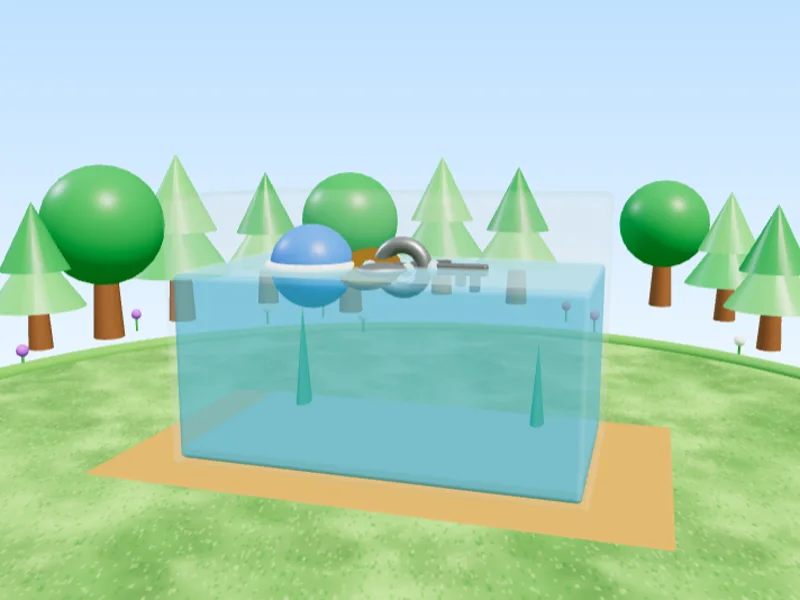
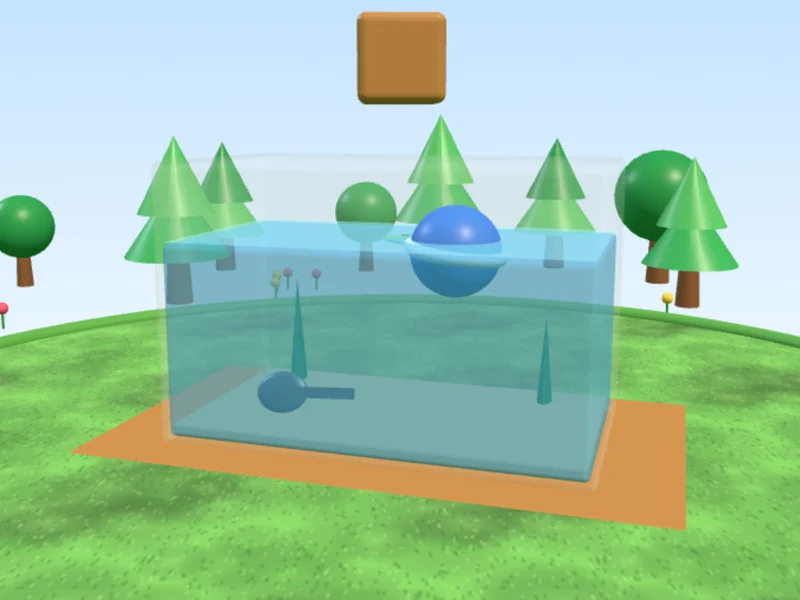
Кішкентай зерттеушілер: 6 тәжірибеге 3D ойындар
Claude-Session: https://claude.ai/code/session_01JwVscDKs5Ms9sQhpVNECAf

diff --git a/games.html b/games.html
@@ -1023,7 +1023,7 @@ function make3D(host, opts = {}) {
   if (!GRASS) GRASS = grassTex(T);
   const R = opts.groundR || 5;
   const ground = new T.Mesh(new T.CircleGeometry(R, 96), new T.MeshStandardMaterial({ color: lin(T, opts.groundC || 0xffffff), map: GRASS, roughness: .95 }));
-  ground.rotation.x = -Math.PI / 2; ground.receiveShadow = true; if (opts.ground !== false) scene.add(ground);
+  ground.rotation.x = -Math.PI / 2; ground.position.y = opts.groundY || 0; ground.receiveShadow = true; if (opts.ground !== false) scene.add(ground);
   const world = new T.Group(); scene.add(world);
   const ray = new T.Raycaster(), v2 = new T.Vector2(); let pick = [], onTap = null, anims = [];
   const camBase = cam.position.clone(), lookV = new T.Vector3(...(opts.look || [0, 1, 0])); let intro = 0; const introT = performance.now();
@@ -1045,11 +1045,11 @@ function make3D(host, opts = {}) {
   (function loop(now) { if (!alive) return; if (!host.isConnected) { alive = false; ro.disconnect(); renderer.dispose(); return; }
     const t = (now - t0) / 1000; if (intro < 1) { intro = Math.min(1, (now - introT) / 1100); placeCam(); }
     world.rotation.y += (rotY - world.rotation.y) * .15; world.rotation.x += (rotX - world.rotation.x) * .15;
-    anims = anims.filter(a => a(t) !== false); renderer.render(scene, cam); requestAnimationFrame(loop); })(t0);
+    { const cur = anims; anims = []; const keep = cur.filter(a => a(t) !== false); anims = keep.concat(anims); } renderer.render(scene, cam); requestAnimationFrame(loop); })(t0);
   const mat = c => LQ ? new T.MeshStandardMaterial({ color: lin(T, c), roughness: .38, metalness: 0 }) : opts.vivid ? new T.MeshPhysicalMaterial({ color: lin(T, c), roughness: .32, metalness: 0, clearcoat: 1, clearcoatRoughness: .06, envMapIntensity: .32 }) : new T.MeshPhysicalMaterial({ color: lin(T, c), roughness: .3, metalness: 0, clearcoat: .7, clearcoatRoughness: .22, envMapIntensity: .9 });
   const mesh = (geo, c, pos = [0, 0, 0]) => { const m = new T.Mesh(geo, mat(c)); m.position.set(...pos); m.castShadow = true; m.receiveShadow = true; return m; };
   const S = { T, scene, cam, world, mesh, mat, setPick: p => pick = p, tap: f => onTap = f, anim: f => anims.push(f), host, lin: c => lin(T, c), grass: (rep = 4) => { const t = GRASS.clone(); t.needsUpdate = true; t.repeat.set(rep, rep); return new T.MeshStandardMaterial({ color: 0xffffff, map: t, roughness: .95 }); } }; window._s3 = S;
-  if (opts.ground !== false && opts.decor !== false) decorate(S, R);
+  if (opts.ground !== false && opts.decor !== false) { const dg = decorate(S, R); dg.position.y = opts.groundY || 0; }
   return S;
 }
 const ease0 = k => 1 - Math.pow(1 - k, 3);
@@ -1529,7 +1529,7 @@ function sinkObj(S, k) { const T = S.T, g = new T.Group(); g.userData = { id: k 
   return g; }
 function g3Sink() {
   const b = body(); const btns = el('div', { class: 'pal3' }); const U3 = stage3(b); b.append(btns);
-  const S = make3D(U3.host, { cam: [0, 2.3, 6.3], look: [0, 1.25, 0], rotY: -.3 }); if (!S) return; const T = S.T;
+  const S = make3D(U3.host, { cam: [0, 2.3, 6.3], look: [0, 1.25, 0], rotY: -.3, vivid: 1 }); if (!S) return; const T = S.T;
   const W = 3.2, H = 2.1, Dp = 1.8, WL = 1.45;
   const table = S.mesh(rbox(T, 4.4, .25, 2.6, .08), 0xc58a4a, [0, -.12, 0]); S.world.add(table);
   const water = new T.Mesh(rbox(T, W - .1, WL, Dp - .1, .04), new T.MeshPhysicalMaterial({ color: lin(T, 0x1e9be8), transparent: true, opacity: .62, roughness: .05, clearcoat: 1, depthWrite: false })); water.position.y = WL / 2 + .05; water.renderOrder = 2; S.world.add(water); const surf = new T.Mesh(new T.PlaneGeometry(W - .12, Dp - .12), new T.MeshPhysicalMaterial({ color: lin(T, 0x9be3ff), transparent: true, opacity: .5, roughness: .02, clearcoat: 1, depthWrite: false })); surf.rotation.x = -Math.PI / 2; surf.position.y = WL + .06; surf.renderOrder = 4; S.world.add(surf); S.anim(() => { if (!surf.parent) return false; surf.position.y = WL + .06 + Math.sin(now3() / 500) * .01; });
@@ -1570,11 +1570,157 @@ GAMES.push(
   { id: 'runner3d', t: 'Кедергіден өт', d: 'Солға және оңға бұрылып, кедергіден өт, жұлдыз жина', emo: '🏃', d3: 1, run: g3Runner },
 );
 
-const TH3=['sink3d','shapes3d','tower3d','paint3d','balloons3d','odd3d','count3d','animals3d','changed3d','builder3d','emotions3d','help3d','bunny3d','moves3d','runner3d','applique','waste','eco'];
+/* =====================================================================
+   КІШКЕНТАЙ ЗЕРТТЕУШІЛЕР: 3D тәжірибе ойындары
+===================================================================== */
+function labTable(S, w = 5.2, d = 2.8) { const T = S.T; const t = S.mesh(rbox(T, w, .22, d, .08), 0xd4955a, [0, -.11, 0]); S.world.add(t); [[-1, -1], [1, -1], [-1, 1], [1, 1]].forEach(([x, z]) => S.world.add(S.mesh(bevCyl(T, .08, 1.2, .03), 0xb87a45, [x * (w / 2 - .3), -.82, z * (d / 2 - .3)]))); return t; }
+function predictBtns(btns, a, b, ca, cb, fa, fb) { const A = el('button', { class: 'blk', style: `background:linear-gradient(180deg,${ca[0]},${ca[1]});font-size:20px;padding:0 24px` }, a); A.onclick = fa; const B = el('button', { class: 'blk', style: `background:linear-gradient(180deg,${cb[0]},${cb[1]});font-size:20px;padding:0 24px` }, b); B.onclick = fb; btns.append(A, B); }
+
+/* ---------- Магнит нені тартады? ---------- */
+const MAG = [
+  { k: 'clip', l: 'Қағаз қыстырғыш', m: 1, why: 'ол темірден жасалған' }, { k: 'key', l: 'Темір кілт', m: 1, why: 'кілт темірден жасалған' },
+  { k: 'spoon', l: 'Темір қасық', m: 1, why: 'қасық темірден жасалған' }, { k: 'nail', l: 'Шеге', m: 1, why: 'шеге темірден жасалған' },
+  { k: 'pencil', l: 'Ағаш қарындаш', m: 0, why: 'ағашты магнит тартпайды' }, { k: 'cube', l: 'Пластик текше', m: 0, why: 'пластикті магнит тартпайды' },
+  { k: 'eraser', l: 'Өшіргіш', m: 0, why: 'резеңкені магнит тартпайды' }, { k: 'apple', l: 'Алма', m: 0, why: 'алма темір емес' }, { k: 'paper', l: 'Қағаз', m: 0, why: 'қағазды магнит тартпайды' },
+];
+function magObj(S, k) { const T = S.T, g = new T.Group(); g.userData = { id: k }; const metal = o => { o.traverse(x => { if (x.material) { x.material.metalness = .85; x.material.roughness = .22; } }); return o; };
+  if (k === 'clip') { const c = new T.CatmullRomCurve3([[-.25, 0, -.08], [.25, 0, -.08], [.25, 0, .08], [-.18, 0, .08], [-.18, 0, -.03], [.16, 0, -.03]].map(p => new T.Vector3(...p))); g.add(metal(S.mesh(new T.TubeGeometry(c, 60, .022, 8), 0xc7d0da, [0, .03, 0]))); }
+  if (k === 'key') { const r = S.mesh(new T.TorusGeometry(.13, .05, 12, 24), 0xc7d0da, [-.2, .05, 0]); r.rotation.x = Math.PI / 2; g.add(r, S.mesh(rbox(T, .42, .06, .07, .02), 0xc7d0da, [.12, .05, 0]), S.mesh(rbox(T, .05, .06, .1, .01), 0xc7d0da, [.27, .05, .07])); metal(g); }
+  if (k === 'spoon') { g.add(sph(S, .12, 0xc7d0da, [-.2, .04, 0], [1.3, .3, 1]), S.mesh(rbox(T, .38, .04, .06, .015), 0xc7d0da, [.1, .05, 0])); metal(g); }
+  if (k === 'nail') { const n = S.mesh(bevCyl(T, .025, .5, .01), 0xa9b4be, [0, .04, 0]); n.rotation.z = Math.PI / 2; const h = S.mesh(bevCyl(T, .06, .03, .01), 0xa9b4be, [-.26, .04, 0]); h.rotation.z = Math.PI / 2; g.add(n, h); metal(g); }
+  if (k === 'pencil') { const b = S.mesh(new T.CylinderGeometry(.05, .05, .6, 6), 0xffc400, [0, .05, 0]); b.rotation.z = Math.PI / 2; const tip = S.mesh(new T.ConeGeometry(.05, .14, 6), 0xf1d2a0, [.37, .05, 0]); tip.rotation.z = -Math.PI / 2; const er = S.mesh(bevCyl(T, .052, .08, .01), 0xff7aa8, [-.34, .05, 0]); er.rotation.z = Math.PI / 2; g.add(b, tip, er); }
+  if (k === 'cube') g.add(S.mesh(rbox(T, .3, .3, .3, .05), 0x0a5cff, [0, .15, 0]));
+  if (k === 'eraser') g.add(S.mesh(rbox(T, .34, .14, .2, .04), 0xff5a8a, [0, .07, 0]), S.mesh(rbox(T, .16, .145, .205, .03), 0x0a5cff, [.09, .07, 0]));
+  if (k === 'apple') { g.add(sph(S, .2, 0xe8101e, [0, .2, 0], [1, .92, 1]), S.mesh(bevCyl(T, .015, .1, .005), 0x6d4c41, [0, .4, 0])); }
+  if (k === 'paper') { const p = S.mesh(rbox(T, .4, .02, .3, .005), 0xffffff, [0, .02, 0]); p.rotation.y = .2; g.add(p); }
+  return g; }
+function magnet3(S) { const T = S.T, g = new T.Group(); const red = S.mesh(new T.TorusGeometry(.38, .14, 20, 40, Math.PI), 0xe8101e, [0, 0, 0]); red.rotation.z = Math.PI; g.add(red);
+  g.add(S.mesh(bevCyl(T, .14, .4, .03), 0xe8101e, [-.38, .2, 0]), S.mesh(bevCyl(T, .14, .4, .03), 0x0a5cff, [.38, .2, 0]), S.mesh(bevCyl(T, .145, .14, .02), 0xd9dde3, [-.38, .45, 0]), S.mesh(bevCyl(T, .145, .14, .02), 0xd9dde3, [.38, .45, 0]));
+  g.children.forEach(m => { if (m.material) m.material.color && 0; }); g.rotation.x = Math.PI; return g; }
+function g3Magnet() {
+  const b = body(); const btns = el('div', { class: 'pal3' }); const U3 = stage3(b); b.append(btns);
+  const S = make3D(U3.host, { cam: [0, 2.6, 5.6], look: [0, .6, 0], vivid: 1, rotY: -.15, groundY: -1.42 }); if (!S) return; const T = S.T; labTable(S);
+  const tray = [S.mesh(rbox(T, 1.4, .08, 1.1, .04), 0x00a83a, [-1.75, .04, .1]), S.mesh(rbox(T, 1.4, .08, 1.1, .04), 0xe8101e, [1.75, .04, .1])]; tray.forEach(t => S.world.add(t));
+  const M = magnet3(S); M.position.set(0, 2.4, 0); M.scale.setScalar(.9); S.world.add(M); S.anim(() => { if (!M.parent) return false; if (!M.userData.busy) M.position.y = 2.4 + Math.sin(now3() / 500) * .06; });
+  const items = shuffle(MAG).slice(0, 8); let i = 0, ok = 0, cur = null, busy = false; const placed = [[], []];
+  function next() { U3.progress(i / items.length); if (i >= items.length) { win('Магнит тек темірді тартады! ' + ok + ' / ' + items.length + ' болжам дұрыс 🧲'); return; }
+    const it = items[i]; cur = magObj(S, it.k); cur.position.set(0, .02, .3); cur.scale.setScalar(.01); S.world.add(cur); tw(S, 380, k => cur.scale.setScalar(ease(k) * 1.6)); U3.say('🤔 ' + it.l + ': магнит тарта ма? Алдымен болжа!'); busy = false; }
+  function answer(g) { if (busy || !cur) return; busy = true; const it = items[i], o = cur, right = g === it.m; M.userData.busy = 1;
+    tw(S, 600, k => { M.position.y = 2.4 - k * 1.55; M.position.z = .3 * k; }, () => {
+      if (it.m) { snd('flip'); const y0 = o.position.y; tw(S, 260, k => { o.position.y = y0 + k * .7; o.rotation.z = k * .3; }, () => { tw(S, 600, k => { M.position.y = .85 + k * 1.55; o.position.y = .72 + k * 1.55; }, () => { place(o, 0); }); }); }
+      else { shakeObj(S, o); tw(S, 700, k => { M.position.y = .85 + ease(k) * 1.55; }, () => place(o, 1)); }
+      if (right) { ok++; snd('ok'); addScore(); } else snd('bad');
+      U3.say((right ? '✅ Болжамың дұрыс! ' : '🙂 Болжам басқаша шықты. ') + it.l + ' — магнит ' + (it.m ? 'тартады' : 'тартпайды') + ', себебі ' + it.why + '.', right ? 'ok' : 'bad'); }); }
+  function place(o, side) { const n = placed[side].length; placed[side].push(o); const tgt = new T.Vector3((side ? 1.75 : -1.75) + ((n % 3) - 1) * .4, .12, .1 + ((n / 3 | 0) - .5) * .4); const a = o.position.clone();
+    tw(S, 500, k => { o.position.lerpVectors(a, tgt, k); o.position.y = a.y + (tgt.y - a.y) * k + Math.sin(k * Math.PI) * .5; o.scale.setScalar(1.6 - k * .6); }, () => { M.userData.busy = 0; M.position.set(0, 2.4, 0); i++; setTimeout(next, AGE === 2 ? 2000 : 1500); }); }
+  predictBtns(btns, '🧲 Тартады', '🚫 Тартпайды', ['#5b8dff', '#2f5fd0'], ['#ff8a65', '#e64a19'], () => answer(1), () => answer(0));
+  const lab = el('div', { class: 'lab3', style: 'left:12%' }, '✅ Тартады'), lab2 = el('div', { class: 'lab3', style: 'right:12%' }, '🚫 Тартпайды'); U3.host.append(lab, lab2);
+  next();
+}
+
+/* ---------- Түстер араласады ---------- */
+const MIX = [[['Көк', 0x0a5cff], ['Сары', 0xffc400], ['Жасыл', 0x00a83a]], [['Қызыл', 0xe8101e], ['Сары', 0xffc400], ['Қызғылт сары', 0xff6a00]], [['Қызыл', 0xe8101e], ['Көк', 0x0a5cff], ['Күлгін', 0x8a1fd6]], [['Қызыл', 0xe8101e], ['Ақ', 0xffffff], ['Қызғылт', 0xff6fae]], [['Көк', 0x0a5cff], ['Ақ', 0xffffff], ['Көгілдір', 0x5fc4ff]]];
+function flask3(S, c, h = .55) { const T = S.T, g = new T.Group(); const glass = new T.Mesh(new T.CylinderGeometry(.38, .38, 1.1, 40, 1, true), new T.MeshPhysicalMaterial({ color: 0xffffff, transparent: true, opacity: .25, roughness: .02, clearcoat: 1, side: T.DoubleSide, depthWrite: false })); glass.position.y = .55; glass.renderOrder = 3; g.add(glass);
+  const rim = S.mesh(new T.TorusGeometry(.38, .03, 10, 40), 0xffffff, [0, 1.1, 0]); rim.rotation.x = Math.PI / 2; g.add(rim); g.add(S.mesh(new T.CylinderGeometry(.38, .38, .03, 40), 0xeeeeee, [0, .015, 0]));
+  const liq = S.mesh(new T.CylinderGeometry(.35, .35, 1, 40), c, [0, h / 2 + .03, 0]); liq.scale.y = h; liq.material.roughness = .15; g.add(liq); g.userData.liq = liq; return g; }
+function g3Mix() {
+  const b = body(); const btns = el('div', { class: 'pal3' }); const U3 = stage3(b); b.append(btns);
+  const S = make3D(U3.host, { cam: [0, 2.4, 5.8], look: [0, .8, 0], vivid: 1, groundY: -1.42 }); if (!S) return; const T = S.T; labTable(S);
+  const pool = AGE === 0 ? MIX.slice(0, 3) : MIX; const R = pool.length; const order = shuffle(pool); let r = 0;
+  function round() { U3.progress(r / R); if (r >= R) { win('Сен нағыз кішкентай суретшісің! 🎨'); return; } clearWorld(S); labTable(S); btns.innerHTML = '';
+    const [A, B, C] = order[r]; const fa = flask3(S, A[1]), fb = flask3(S, B[1]), fc = flask3(S, 0xffffff, .02); fa.position.set(-1.6, 0, 0); fb.position.set(1.6, 0, 0); fc.position.set(0, 0, .4); fc.userData.liq.visible = false; S.world.add(fa, fb, fc);
+    U3.say('🧪 ' + A[0] + ' пен ' + B[0].toLowerCase() + ' араласса, қандай түс шығады? Болжа!'); let done = false;
+    const opts = shuffle([C, ...shuffle(MIX.map(m => m[2]).filter(x => x[0] !== C[0])).slice(0, 2)]);
+    opts.forEach(o => { const bt = el('button', { class: 'blk', style: `background:${hex6(o[1])};${o[1] === 0xffffff || o[1] === 0x5fc4ff || o[1] === 0xffc400 ? 'color:#1d3a8f;text-shadow:none' : ''}` }, o[0]); bt.onclick = () => { if (done) return; done = true; const right = o === C; pour(fa, fb, fc, C, () => { if (right) { snd('ok'); addScore(); U3.say('✅ Иә! ' + A[0] + ' + ' + B[0].toLowerCase() + ' = ' + C[0].toLowerCase() + '!', 'ok'); } else { snd('bad'); U3.say('🙂 Қара: ' + A[0] + ' + ' + B[0].toLowerCase() + ' = ' + C[0].toLowerCase() + '. Енді есте сақтадың!', 'bad'); } popFx(S, new T.Vector3(0, 1.4, .4), C[1]); setTimeout(() => { r++; round(); }, 2600); }); }; btns.append(bt); }); }
+  function pour(fa, fb, fc, C, done) { const L = fc.userData.liq; L.visible = true; L.material.color.copy(S.lin(fa.userData.liq.material.color.getHex ? 0xffffff : 0xffffff)); L.material.color.copy(fa.userData.liq.material.color); L.scale.y = .02;
+    const tilt = (f, s, after) => { const p0 = f.position.clone(); tw(S, 500, k => { f.position.x = p0.x * (1 - k * .55); f.position.y = k * 1.1; f.rotation.z = -s * k * 1.9; }, () => { const lq = f.userData.liq, h0 = lq.scale.y; tw(S, 700, k => { lq.scale.y = h0 * (1 - k * .85); L.scale.y += .006; L.position.y = L.scale.y / 2 + .03; }, () => tw(S, 400, k => { f.position.x = p0.x * (.45 + .55 * k); f.position.y = 1.1 * (1 - k); f.rotation.z = -s * 1.9 * (1 - k); }, after)); }); };
+    tilt(fa, -1, () => tilt(fb, 1, () => { const c0 = L.material.color.clone(), c1 = S.lin(C[1]); tw(S, 900, k => { L.material.color.copy(c0).lerp(c1, k); fc.rotation.y = k * Math.PI * 2; }, done); })); }
+  round();
+}
+
+/* ---------- Тұқым өсір ---------- */
+const STEPS = [['soil', '🪴 Топырақ сал'], ['seed', '🌰 Тұқым ек'], ['water', '💧 Су құй'], ['sun', '☀ Күнге қой'], ['wait', '⏳ Күт']];
+function g3Grow() {
+  const b = body(); const btns = el('div', { class: 'pal3' }); const U3 = stage3(b); b.append(btns);
+  const S = make3D(U3.host, { cam: [0, 2.2, 5.4], look: [0, 1.0, 0], vivid: 1, groundY: -1.42 }); if (!S) return; const T = S.T; labTable(S, 4, 2.4);
+  const pot = new T.Group(); const pts = [[0, 0], [.48, 0], [.6, .75], [.68, .78], [.68, .9], [.6, .9]].map(p => new T.Vector2(p[0], p[1])); pot.add(S.mesh(new T.LatheGeometry(pts, 48), 0xd9653b)); S.world.add(pot);
+  const soil = S.mesh(new T.CylinderGeometry(.58, .5, .1, 40), 0x6d4c2f, [0, .5, 0]); soil.visible = false; pot.add(soil);
+  const sunG = new T.Group(); sunG.add(sph(S, .35, 0xffc400)); for (let i = 0; i < 10; i++) { const r = S.mesh(new T.ConeGeometry(.07, .25, 8), 0xff9a00); const a = i / 10 * Math.PI * 2; r.position.set(Math.cos(a) * .5, Math.sin(a) * .5, 0); r.rotation.z = a - Math.PI / 2; sunG.add(r); } sunG.position.set(2.2, 3.2, -.5); sunG.scale.setScalar(.01); S.world.add(sunG);
+  const plant = new T.Group(); plant.position.y = .55; pot.add(plant);
+  const need = AGE === 0 ? STEPS.slice(0, 3).concat([STEPS[4]]) : STEPS; let k = 0, done = 0;
+  U3.say('🌱 Тұқымды өсір: қадамдарды дұрыс ретімен таңда! (' + need.length + ' қадам)');
+  function grow(stage) { const T2 = S.T;
+    if (stage === 'soil') { soil.visible = true; soil.scale.set(.01, .01, .01); tw(S, 500, q => soil.scale.setScalar(ease(q))); }
+    if (stage === 'seed') { const s = sph(S, .07, 0x8d6e63, [0, 1.2, 0], [1, 1.3, 1]); pot.add(s); tw(S, 500, q => s.position.y = 1.2 - q * .62, () => tw(S, 300, q => s.position.y = .58 - q * .05)); }
+    if (stage === 'water') { const can = new T2.Group(); can.add(S.mesh(rbox(T2, .5, .4, .3, .06), 0x0a5cff), S.mesh(bevCyl(T2, .04, .5, .01), 0x0a5cff, [.35, .1, 0])); can.children[1].rotation.z = -.9; can.position.set(.8, 1.6, 0); pot.add(can); tw(S, 400, q => can.rotation.z = q * .6, () => { for (let i = 0; i < 14; i++) setTimeout(() => { const d = S.mesh(new T2.SphereGeometry(.04, 8, 6), 0x5fc4ff, [.55, 1.45, rnd(-.1, .1)]); pot.add(d); tw(S, 500, q => { d.position.y = 1.45 - q * .9; d.position.x = .55 - q * .45; }, () => pot.remove(d)); }, i * 60); setTimeout(() => tw(S, 300, q => can.position.y = 1.6 + q * 2, () => pot.remove(can)), 1100); }); soil.material.color.copy(S.lin(0x4a3220)); }
+    if (stage === 'sun') { tw(S, 700, q => { sunG.scale.setScalar(ease(q)); sunG.rotation.z = q * 2; }); }
+    if (stage === 'wait') { let t0 = now3(); const stem = S.mesh(bevCyl(T2, .035, 1, .015), 0x2e9e4f, [0, 0, 0]); stem.scale.y = .01; plant.add(stem);
+      const leaves = []; [[.25, 1, .35], [.55, -1, .35], [.8, 1, .3]].forEach(([y, s, r]) => { const l = sph(S, r, 0x37b24d, [s * r * .8, y, 0], [1, .25, .6]); l.rotation.z = s * .5; l.scale.multiplyScalar(.01); l.userData.t = y; plant.add(l); leaves.push(l); });
+      const fl = new T2.Group(); fl.position.y = 1.05; for (let i = 0; i < 6; i++) { const p = sph(S, .11, 0xff2d95, [Math.cos(i / 6 * 6.283) * .14, 0, Math.sin(i / 6 * 6.283) * .14], [1, .4, 1]); fl.add(p); } fl.add(sph(S, .08, 0xffc400, [0, .03, 0])); fl.scale.setScalar(.01); plant.add(fl);
+      const tom = sph(S, .13, 0xe8101e, [.25, .62, .1]); tom.scale.setScalar(.01); plant.add(tom);
+      S.anim(() => { const q = Math.min(1, (now3() - t0) / 2600); stem.scale.y = Math.max(.01, q * 1.05); stem.position.y = stem.scale.y / 2; leaves.forEach(l => { const s = Math.max(.01, Math.min(1, (q * 1.05 - l.userData.t) * 3)); l.scale.set(s, s * .25, s * .6); }); const f = Math.max(.01, Math.min(1, (q - .8) * 5)); fl.scale.setScalar(f); if (AGE === 2) tom.scale.setScalar(Math.max(.01, Math.min(1, (q - .9) * 10))); plant.rotation.y = q * .5; if (q >= 1) return false; }); }
+  }
+  shuffle(need).forEach(([id, l]) => { const bt = el('button', { class: 'blk', style: 'background:linear-gradient(180deg,#5fd07a,#2fa84f)' }, l); bt.onclick = () => { if (done) return; if (id === need[k][0]) { k++; snd('ok'); addScore(); grow(id); bt.disabled = true; bt.style.opacity = .45; U3.progress(k / need.length);
+        if (k === need.length) { done = 1; U3.say('🌸 Керемет! Өсімдік өсті! Оған топырақ, су, жарық және уақыт керек.', 'ok'); setTimeout(() => win('Тұқымнан өсімдік өсірдің! 🌱'), 3200); } else U3.say(praise() + ' ' + k + '-қадам орындалды. Келесісі қайсы?', 'ok'); }
+      else { snd('bad'); shake(bt); U3.say(tryA() + ' Ойлан: алдымен не істейміз?', 'bad'); } }; btns.append(bt); });
+}
+
+/* ---------- Мұз қайда тез ериді? ---------- */
+const PLACES = [['sun', '☀ Күн астында', 3], ['room', '🏠 Бөлмеде', 2], ['shade', '🌳 Көлеңкеде', 1], ['fridge', '❄ Тоңазытқышта', 0]];
+function g3Melt() {
+  const b = body(); const btns = el('div', { class: 'pal3' }); const U3 = stage3(b); b.append(btns);
+  const S = make3D(U3.host, { cam: [0, 3, 6.6], look: [0, .6, 0], vivid: 1 }); if (!S) return; const T = S.T;
+  const qs = AGE === 0 ? [['fast', 2]] : AGE === 1 ? [['fast', 3], ['slow', 3]] : [['fast', 4], ['slow', 4], ['fast', 4]]; let r = 0;
+  function spot(kind, x) { const g = new T.Group(); g.position.x = x; const base = S.mesh(rbox(T, 1.3, .12, 1.3, .05), kind === 'sun' ? 0xffd36b : kind === 'fridge' ? 0xcfe9ff : kind === 'shade' ? 0x7cc576 : 0xe7d3b5, [0, .06, 0]); g.add(base);
+    if (kind === 'sun') { const s = sph(S, .22, 0xffc400, [0, 1.9, 0]); g.add(s); for (let i = 0; i < 8; i++) { const r = S.mesh(new T.ConeGeometry(.05, .18, 6), 0xff9a00); const a = i / 8 * 6.283; r.position.set(Math.cos(a) * .33, 1.9 + Math.sin(a) * .33, 0); r.rotation.z = a - Math.PI / 2; g.add(r); } }
+    if (kind === 'shade') { g.add(S.mesh(bevCyl(T, .06, 1.3, .02), 0x8d5a34, [-.45, .7, -.4]), sph(S, .55, 0x2fb34f, [-.3, 1.5, -.3])); }
+    if (kind === 'fridge') { const f = S.mesh(rbox(T, 1.1, 1.6, .5, .08), 0xf4f9ff, [0, .9, -.75]); g.add(f, S.mesh(rbox(T, .06, .5, .08, .02), 0x9aa3ad, [.4, 1.2, -.48]), S.mesh(rbox(T, 1.05, .02, .02, .01), 0xc9d6e3, [0, 1.15, -.49])); for (let i = 0; i < 6; i++) { const sn = S.mesh(new T.OctahedronGeometry(.06), 0x8fd3ff, [rnd(-.4, .4), rnd(.6, 1.5), -.45]); g.add(sn); } }
+    if (kind === 'room') { g.add(S.mesh(rbox(T, .35, .5, .35, .05), 0xff7043, [-.4, .37, -.4]), S.mesh(rbox(T, .5, .08, .4, .03), 0xffffff, [-.4, .66, -.4])); }
+    const ice = new T.Mesh(rbox(T, .6, .6, .6, .09), new T.MeshPhysicalMaterial({ color: 0xd8f1ff, roughness: .05, clearcoat: 1, transparent: true, opacity: .85, emissive: 0x8fd3ff, emissiveIntensity: .15 })); ice.position.set(.15, .425, .1); ice.castShadow = true; g.add(ice);
+    const pud = new T.Mesh(new T.CircleGeometry(.4, 32), new T.MeshPhysicalMaterial({ color: 0x5fc4ff, transparent: true, opacity: .6, roughness: .02, clearcoat: 1 })); pud.rotation.x = -Math.PI / 2; pud.position.set(.15, .125, .1); pud.scale.setScalar(.01); g.add(pud); g.userData = { id: kind, ice, pud }; return g; }
+  function round() { U3.progress(r / qs.length); if (r >= qs.length) { win('Жылыда мұз тез ериді, суықта ерімейді! 🧊'); return; } clearWorld(S); btns.innerHTML = '';
+    const [type, n] = qs[r]; const set = AGE === 0 ? [PLACES[0], PLACES[3]] : n === 3 ? [PLACES[0], PLACES[2], PLACES[3]] : PLACES; const xs = row(set.length, set.length > 3 ? 1.55 : 1.8); const spots = set.map((p, i) => { const g = spot(p[0], xs[i]); S.world.add(g); return g; });
+    const ans = type === 'fast' ? set.reduce((a, b) => b[2] > a[2] ? b : a) : set.reduce((a, b) => b[2] < a[2] ? b : a);
+    U3.say(type === 'fast' ? '🧊 Мұз қай жерде ЕҢ ТЕЗ ериді? Болжа!' : '🧊 Мұз қай жерде ЕҢ БАЯУ ериді? Болжа!'); let done = false;
+    set.forEach(p => { const bt = el('button', { class: 'blk', style: 'background:linear-gradient(180deg,#5b8dff,#2f5fd0)' }, p[1]); bt.onclick = () => { if (done) return; done = true; const right = p === ans;
+        U3.say('⏳ Бақылайық...'); const t0 = now3(); S.anim(() => { const q = Math.min(1, (now3() - t0) / 3500); spots.forEach((g, i) => { const sp = set[i][2] / 3; const m = Math.min(1, q * sp * 1.1); const sc = Math.max(.02, 1 - m * .95); g.userData.ice.scale.set(sc, sc * .9, sc); g.userData.ice.position.y = .125 + .3 * sc; g.userData.pud.scale.setScalar(Math.max(.01, m * 1.1)); }); if (q >= 1) return false; });
+        setTimeout(() => { if (right) { snd('ok'); addScore(); } else snd('bad'); U3.say((right ? '✅ Болжамың дұрыс! ' : '🙂 Қара: ') + 'мұз ' + (type === 'fast' ? 'ең тез ' : 'ең баяу ') + ans[1].replace(/^\S+\s/, '').toLowerCase() + ' ериді. ' + (type === 'fast' ? 'Жылу мұзды ерітеді.' : 'Суықта мұз сақталады.'), right ? 'ok' : 'bad'); setTimeout(() => { r++; round(); }, 2800); }, 3600); }; btns.append(bt); }); }
+  round();
+}
+
+GAMES.push(
+  { id: 'magnet3d', t: 'Магнит нені тартады?', d: 'Болжа да, тексер: 3D магнит қай заттарды тартады?', emo: '🧲', d3: 1, run: g3Magnet },
+  { id: 'mix3d', t: 'Түстер араласады', d: 'Екі түсті араластырсақ, қандай түс шығады? 3D колбалармен тексер', emo: '🎨', d3: 1, run: g3Mix },
+  { id: 'grow3d', t: 'Тұқым өсір', d: 'Қадамдарды ретімен орында: топырақ, тұқым, су, күн — өсімдік өседі!', emo: '🌱', d3: 1, run: g3Grow },
+  { id: 'melt3d', t: 'Мұз қайда тез ериді?', d: 'Күн, көлеңке, бөлме, тоңазытқыш: мұз қай жерде тез ериді?', emo: '🧊', d3: 1, run: g3Melt },
+);
+
+/* ---------- Су қайда жоғалды? (булану) ---------- */
+function g3Evap() {
+  const b = body(); const btns = el('div', { class: 'pal3' }); const U3 = stage3(b); b.append(btns);
+  const S = make3D(U3.host, { cam: [0, 2.3, 5.6], look: [0, .9, 0], vivid: 1, groundY: -1.42 }); if (!S) return; const T = S.T; labTable(S);
+  const win3 = S.mesh(rbox(T, 2.2, 1.6, .08, .05), 0xffffff, [-1.3, 1.5, -1.2]); S.world.add(win3); S.world.add(S.mesh(rbox(T, 2.0, 1.4, .02, .02), 0xbfe6ff, [-1.3, 1.5, -1.15]));
+  const sun = sph(S, .3, 0xffc400, [-1.3, 2.0, -1.1]); S.world.add(sun); for (let i = 0; i < 10; i++) { const r = S.mesh(new T.ConeGeometry(.05, .18, 6), 0xff9a00); const a = i / 10 * 6.283; r.position.set(-1.3 + Math.cos(a) * .43, 2.0 + Math.sin(a) * .43, -1.1); r.rotation.z = a - Math.PI / 2; S.world.add(r); }
+  const shade = S.mesh(rbox(T, 1.6, 1.4, .1, .05), 0x8d6e63, [1.4, 1.2, -1.15]); S.world.add(shade);
+  const A = flask3(S, 0x1e9be8, .8), B = flask3(S, 0x1e9be8, .8); A.position.set(-1.1, 0, 0); B.position.set(1.1, 0, 0); S.world.add(A, B);
+  const la = el('div', { class: 'lab3', style: 'left:16%' }, '☀ Күн түсетін терезе'), lb = el('div', { class: 'lab3', style: 'right:16%' }, '🌳 Көлеңке'); U3.host.append(la, lb);
+  let day = 0, phase = 'guess'; const days = 3;
+  U3.say('🤔 Екі стақанға бірдей су құйдық. Қай стақандағы су тезірек азаяды? Болжа!');
+  const steam = () => { for (let i = 0; i < 6; i++) setTimeout(() => { const p = new T.Mesh(new T.SphereGeometry(.07, 10, 8), new T.MeshBasicMaterial({ color: 0xffffff, transparent: true, opacity: .8 })); p.position.set(-1.1 + rnd(-.15, .15), .3 + A.userData.liq.scale.y, rnd(-.1, .1)); S.world.add(p); tw(S, 1200, q => { p.position.y += .012; p.material.opacity = .8 * (1 - q); p.scale.setScalar(1 + q * 2); }, () => S.world.remove(p)); }, i * 150); };
+  function guess(g) { if (phase !== 'guess') return; phase = 'watch'; btns.innerHTML = ''; S.userData = { g }; U3.say('⏳ Енді бақылайық: «Келесі күн» батырмасын бас!'); const nb = el('button', { class: 'blk', style: 'background:linear-gradient(180deg,#5b8dff,#2f5fd0);font-size:20px;padding:0 26px' }, '📅 Келесі күн'); nb.onclick = nextDay; btns.append(nb); }
+  function nextDay() { if (day >= days) return; day++; snd('flip'); steam(); const la0 = A.userData.liq.scale.y, lb0 = B.userData.liq.scale.y;
+    tw(S, 1200, q => { const a = A.userData.liq, bb = B.userData.liq; a.scale.y = la0 - .22 * q; a.position.y = a.scale.y / 2 + .03; bb.scale.y = lb0 - .05 * q; bb.position.y = bb.scale.y / 2 + .03; });
+    U3.progress(day / days); U3.say('📅 ' + day + '-күн: ' + (day < days ? 'күндегі стақанда су азайды. Тағы бақыла!' : 'бақылау аяқталды!'));
+    if (day === days) { btns.innerHTML = ''; setTimeout(() => { const ok = S.userData.g === 'sun'; if (ok) { snd('ok'); addScore(); } else snd('bad'); U3.say((ok ? '✅ Болжамың дұрыс! ' : '🙂 Болжам басқаша шықты. ') + 'Күн суды жылытады — су буға айналып ұшып кетеді. Бұл — булану.', ok ? 'ok' : 'bad'); setTimeout(() => win('Сен буланудың сырын аштың! 💧'), 2800); }, 1400); } }
+  [['☀ Күндегі стақан', 'sun', ['#ffb74d', '#f57c00']], ['🌳 Көлеңкедегі стақан', 'shade', ['#66bb6a', '#2e7d32']]].forEach(([l, k, c]) => { const bt = el('button', { class: 'blk', style: `background:linear-gradient(180deg,${c[0]},${c[1]});font-size:18px;padding:0 20px` }, l); bt.onclick = () => guess(k); btns.append(bt); });
+}
+GAMES.push({ id: 'evap3d', t: 'Су қайда жоғалды?', d: 'Күндегі және көлеңкедегі стақан: су қайсысында тез азаяды? Күн сайын бақыла', emo: '💧', d3: 1, run: g3Evap });
+
+const TH3=['evap3d','magnet3d','mix3d','grow3d','melt3d','sink3d','shapes3d','tower3d','paint3d','balloons3d','odd3d','count3d','animals3d','changed3d','builder3d','emotions3d','help3d','bunny3d','moves3d','runner3d','applique','waste','eco'];
 GAMES.forEach(g=>{if(TH3.includes(g.id)){g.th='./img/g3/'+g.id+'.webp';delete g.emo;g.contain=false}if(g.id==='delightex'){g.th='img/hab_c_forest.webp';delete g.emo}});
 AGEF=-1;AGE=2;try{localStorage.removeItem('ba-age')}catch(e){}
 const SECS=[['akyldy','Ақылды ойындар әлемі','img/i1.webp'],['soilei','Сөйлейтін әлем','img/i2.webp'],['kiial','Қиял мен шығармашылық әлемі','img/i3.webp'],['meirim','Мейірім мен достық мекені','img/i4.webp'],['qozgalys','Қозғалыс – денсаулық кепілі','img/i5.webp'],['zertteu','Кішкентай зерттеушілер','img/i9.webp']];
-const META={"shapes3d": [["akyldy"], [0, 1, 2]], "tower3d": [["akyldy"], [0, 1, 2]], "place": [["akyldy", "kiial"], [0, 1, 2]], "seasons": [["akyldy"], [0, 1, 2]], "habitat": [["akyldy"], [0, 1, 2]], "homes": [["akyldy"], [0, 1]], "growth": [["akyldy", "zertteu"], [0, 1, 2]], "memory": [["akyldy"], [0, 1, 2]], "waste": [["akyldy", "meirim"], [1, 2]], "riddle": [["soilei"], [1, 2]], "babies": [["soilei"], [0, 1]], "paint3d": [["kiial"], [0, 1, 2]], "studio": [["kiial"], [0, 1, 2]], "applique": [["kiial"], [0, 1, 2]], "puzzle": [["kiial"], [0, 1, 2]], "sticker": [["kiial"], [0, 1, 2]], "eco": [["meirim"], [1, 2]], "delightex": [["akyldy", "soilei"], [0, 1, 2]], "sink3d": [["zertteu"], [0, 1, 2]], "monshak": [["akyldy"], [0, 1, 2]], "balloons3d": [["akyldy"], [0, 1, 2]], "odd3d": [["akyldy"], [0, 1, 2]], "count3d": [["akyldy"], [0, 1, 2]], "animals3d": [["soilei"], [0, 1, 2]], "changed3d": [["kiial", "akyldy"], [0, 1, 2]], "builder3d": [["kiial"], [0, 1, 2]], "emotions3d": [["meirim"], [0, 1, 2]], "help3d": [["meirim"], [0, 1, 2]], "bunny3d": [["qozgalys"], [0, 1, 2]], "moves3d": [["qozgalys"], [0, 1, 2]], "runner3d": [["qozgalys"], [0, 1, 2]]};
+const META={"shapes3d": [["akyldy"], [0, 1, 2]], "tower3d": [["akyldy"], [0, 1, 2]], "place": [["akyldy", "kiial"], [0, 1, 2]], "seasons": [["akyldy"], [0, 1, 2]], "habitat": [["akyldy"], [0, 1, 2]], "homes": [["akyldy"], [0, 1]], "growth": [["akyldy"], [0, 1, 2]], "memory": [["akyldy"], [0, 1, 2]], "waste": [["akyldy", "meirim"], [1, 2]], "riddle": [["soilei"], [1, 2]], "babies": [["soilei"], [0, 1]], "paint3d": [["kiial"], [0, 1, 2]], "studio": [["kiial"], [0, 1, 2]], "applique": [["kiial"], [0, 1, 2]], "puzzle": [["kiial"], [0, 1, 2]], "sticker": [["kiial"], [0, 1, 2]], "eco": [["meirim"], [1, 2]], "delightex": [["akyldy", "soilei"], [0, 1, 2]], "sink3d": [["zertteu"], [0, 1, 2]], "magnet3d": [["zertteu"], [0, 1, 2]], "mix3d": [["zertteu"], [0, 1, 2]], "grow3d": [["zertteu"], [0, 1, 2]], "melt3d": [["zertteu"], [0, 1, 2]], "evap3d": [["zertteu"], [0, 1, 2]], "monshak": [["akyldy"], [0, 1, 2]], "balloons3d": [["akyldy"], [0, 1, 2]], "odd3d": [["akyldy"], [0, 1, 2]], "count3d": [["akyldy"], [0, 1, 2]], "animals3d": [["soilei"], [0, 1, 2]], "changed3d": [["kiial", "akyldy"], [0, 1, 2]], "builder3d": [["kiial"], [0, 1, 2]], "emotions3d": [["meirim"], [0, 1, 2]], "help3d": [["meirim"], [0, 1, 2]], "bunny3d": [["qozgalys"], [0, 1, 2]], "moves3d": [["qozgalys"], [0, 1, 2]], "runner3d": [["qozgalys"], [0, 1, 2]]};
 function renderGrid(){const host=$('#gameGrid');host.innerHTML='';
  SECS.forEach(([k,t,ic])=>{const list=GAMES.filter(g=>META[g.id]&&META[g.id][0].includes(k)&&(AGEF<0||META[g.id][1].includes(AGEF))).sort((a,b)=>(b.d3||0)-(a.d3||0));if(!list.length)return;
  const grid=el('div',{class:'games'});

diff --git a/index.html b/index.html
@@ -460,14 +460,12 @@ const BASE=[
  {"id": "e3-moves", "sec": "qozgalys", "type": "game", "t": "«Қимылды қайтала»", "age": "3–6 жас", "goal": "Қимылды көру арқылы қайталау, есте сақтау, үйлесімділік.", "tools": "Интерактивті тақта, планшет немесе компьютер.", "rule": "3D робот 4 қимылды ретімен көрсетеді (аттары жасырын); балалар оларды өздері жасап, сосын сол ретпен батырмаларды басады.", "ext": "games.html#moves3d", "th": "🤖"},
  {"id": "e3-runner", "sec": "qozgalys", "type": "game", "t": "«Кедергіден өт»", "age": "3–6 жас", "goal": "Оң мен солды ажырату, кеңістікте бағдарлау, реакция.", "tools": "Интерактивті тақта, планшет немесе компьютер.", "rule": "Қоянша жолмен жүгіреді; «Солға» және «Оңға» батырмаларымен (немесе бағыттауыш пернелермен, саусақпен сүйреп) кедергіден айналып, жұлдыз жинайды. Балалар бағытты дауыстап айтып, денесімен де бұрылады. Ойын 55 секундқа созылады.", "ext": "games.html#runner3d", "th": "🏃"},
  {"id": "dx-forest", "sec": "akyldy", "type": "game", "t": "«3D саяхат: орман және үй жануарлары»", "age": "3–6 жас", "goal": "Жабайы және үй жануарларын ажырату, олардың мекенімен таныстыру; сөздік қорды байыту.", "tools": "Интерактивті тақта немесе компьютер (интернет қажет); қаласаңыз — планшет пен VR көзілдірігі.", "rule": "Delightex Edu платформасындағы 3D сахнаны ашып, балалармен бірге орманды аралайды: жануарды тауып, атын атайды, ол орманда ма, үйде ме тұратынын айтады, таңдаған жануары туралы 2–3 сөйлем құрайды. Планшетте Delightex Edu қолданбасы арқылы VR режимінде көруге болады.", "ext": "https://edu.delightex.com/JJN-NPW", "th": "🌲", "embed": "https://edu.delightex.com/JJN-NPW"},
- {"id": "exp-sink", "sec": "zertteu", "type": "exp", "t": "«Батады ма, батпайды ма?»", "age": "3–4 жас", "goal": "Заттардың қасиетін (ауыр/жеңіл, ағаш/металл/пластик) байқау; болжау жасап, оны тексеруге үйрету.", "tools": "Су құйылған мөлдір ыдыс, тас, ағаш текше, пластик ойыншық, металл кілт немесе қасық, жапырақ, алма; жасыл және қызыл карточкалар.", "rule": "Барысы: 1) Тәрбиеші затты көрсетеді, балалар болжайды: «батады» — қызыл, «батпайды» — жасыл карточка. 2) Затты суға салып, нәтижені бірге көреді. 3) Нәтижені тақтадағы кестеге белгілейді (суретпен). Қорытынды сұрақ: «Неге тас батты, ал ағаш батпады?» Алдымен немесе соңынан «Батады ма, батпайды ма?» 3D ойынын ойнауға болады. Сақтық: су төгілсе бірден сүрту; ұсақ заттарды балалар аузына салмауын бақылау."},
- {"id": "exp-magnet", "sec": "zertteu", "type": "exp", "t": "«Магнит нені тартады?»", "age": "4–5 жас", "goal": "Магниттің қасиетімен таныстыру; заттарды «тартады / тартпайды» деп топтастыру.", "tools": "Балаларға арналған үлкен магнит, қағаз қыстырғыш, темір қасық, кілт, пластик текше, ағаш қарындаш, мата, қағаз; екі тәрелке.", "rule": "Барысы: 1) Балалар магнитті заттарға жақындатады. 2) Тартылғандарын бір тәрелкеге, тартылмағандарын екіншісіне салады. 3) «Тартылғандардың бәрі неден жасалған?» деп талқылайды (темір). Ойын: «Сиқырлы қасық» — магнитпен үстел астынан қыстырғышты жүргізу. Сақтық: тек үлкен магнит қолданылады, ұсақ магниттерді беруге болмайды (жұтып қою қаупі); ересектің бақылауымен ғана."},
- {"id": "exp-water", "sec": "zertteu", "type": "exp", "t": "«Су қайда жоғалды?»", "age": "4–5 жас", "goal": "Булану құбылысымен таныстыру; бақылау жүргізіп, нәтижені салыстыру.", "tools": "Екі бірдей мөлдір стақан, су, маркер немесе жапсырма, күн түсетін терезе, бақылау күнделігі (сурет салатын парақ).", "rule": "Барысы: 1) Екі стақанға бірдей су құйып, деңгейін белгілейді. 2) Біреуін күн түсетін терезеге, екіншісін көлеңкеге қояды. 3) Үш күн бойы әр таңертең деңгейді қарап, күнделікке сурет салады. Қорытынды: «Қай стақандағы су тез азайды? Неге?» (Күн жылытады — су буланады.)"},
- {"id": "exp-colors", "sec": "zertteu", "type": "exp", "t": "«Түстер араласады»", "age": "3–4 жас", "goal": "Негізгі түстерді араластыру арқылы жаңа түс алуды көрсету; қызығушылық ояту.", "tools": "Гуашь (қызыл, сары, көк), су, мөлдір стақандар немесе палитра, қылқалам, ақ парақ.", "rule": "Барысы: 1) Балалар алдымен болжайды: «Көк пен сары қосылса не болады?» 2) Екі түсті араластырып, нәтижені көреді: көк + сары = жасыл; қызыл + сары = қызғылт сары; қызыл + көк = күлгін. 3) Жаңа түстермен сурет салады. Кейін «3D бояу» ойынында жаңа түстерді қолдануға болады."},
- {"id": "exp-seed", "sec": "zertteu", "type": "exp", "t": "«Тұқым қалай өседі?»", "age": "5–6 жас", "goal": "Өсімдіктің өсу кезеңдерін бақылау; өсуге не қажет екенін (су, жарық, жылу) түсіну.", "tools": "Бұршақ немесе асбұршақ тұқымдары, мақта немесе дымқыл сүлгі, мөлдір стақан, су, бақылау күнделігі.", "rule": "Барысы: 1) Тұқымды дымқыл мақтаға салып, мөлдір стақанға қояды. 2) Күн сайын мақтаны ылғалдап, өзгерісті күнделікке салады (тамыр, сабақ, жапырақ). 3) Бір стақанды қараңғыға қойып, айырмашылықты салыстырады. 4) Аптаның соңында «Қызанақ қалай өседі?» ойынымен кезеңдерді бекітеді."},
- {"id": "exp-snow", "sec": "zertteu", "type": "exp", "t": "«Қар неге ериді?»", "age": "4–5 жас", "goal": "Заттың күйінің өзгеруін (қар → су) байқау; жылу мен суықтың әсерін түсіну.", "tools": "Екі ыдыс, қар (немесе мұз текшелері), жылы бөлме, тоңазытқыш немесе балкон, сағат суреті.", "rule": "Барысы: 1) Серуенде екі ыдысқа қар жинайды. 2) Біреуін топқа әкеледі, екіншісін сыртта қалдырады. 3) 30 минуттан соң салыстырады: бөлмедегі қар суға айналды. 4) Суды мұздатқышқа қойып, ертеңіне қайта мұзға айналғанын көреді. Қорытынды: «Жылыда қар ериді, суықта су қатады»."},
- {"id": "e3-sink", "sec": "zertteu", "type": "game", "t": "«Батады ма, батпайды ма? 3D»", "age": "3–6 жас", "goal": "Болжау жасап, оны тексеру; заттардың қасиетін (материал, салмақ) ажырату.", "tools": "Интерактивті тақта, планшет немесе компьютер.", "rule": "3D су ыдысының үстінде зат пайда болады. Бала алдымен болжайды: «Батады» немесе «Батпайды», сосын зат суға түседі де, жауап тексеріледі. 8 зат; әр заттан кейін неге батқанын немесе батпағанын түсіндіреді.", "ext": "games.html#sink3d", "th": "🧪"},
- {"id": "e-growth-z", "sec": "zertteu", "type": "game", "t": "«Қызанақ қалай өседі?»", "age": "4–6 жас", "goal": "Өсімдіктің өсу кезеңдерін ретімен орналастыру; тәжірибе нәтижесін бекіту.", "tools": "Экран; «Тұқым қалай өседі?» тәжірибесінің күнделігі.", "rule": "Тұқым өсіру тәжірибесінен кейін кезеңдерді ойын арқылы бекітеді: 8 кезеңді тұқымнан жеміске дейін ретімен орналастырады.", "ext": "games.html#growth", "th": "grow_8.webp"},
+ {"id": "exp-sink", "sec": "zertteu", "type": "exp", "t": "«Батады ма, батпайды ма?»", "age": "3–4 жас", "goal": "Заттардың қасиетін (ауыр/жеңіл, ағаш/металл/пластик) байқау; болжау жасап, оны тексеруге үйрету.", "tools": "Су құйылған мөлдір ыдыс, тас, ағаш текше, пластик ойыншық, металл кілт немесе қасық, жапырақ, алма; жасыл және қызыл карточкалар. 3D ойын үшін — интерактивті тақта, планшет немесе компьютер.", "rule": "Барысы: 1) Тәрбиеші затты көрсетеді, балалар болжайды: «батады» — қызыл, «батпайды» — жасыл карточка. 2) Затты суға салып, нәтижені бірге көреді. 3) Нәтижені тақтадағы кестеге белгілейді (суретпен). Қорытынды сұрақ: «Неге тас батты, ал ағаш батпады?» Алдымен немесе соңынан «Батады ма, батпайды ма?» 3D ойынын ойнауға болады. Сақтық: су төгілсе бірден сүрту; ұсақ заттарды балалар аузына салмауын бақылау. 🎮 3D ойын: 3D су ыдысының үстінде зат пайда болады. Бала алдымен болжайды: «Батады» немесе «Батпайды», сосын зат суға түседі де, жауап тексеріледі. 8 зат; әр заттан кейін неге батқанын немесе батпағанын түсіндіреді.", "ext": "games.html#sink3d", "play3": 1},
+ {"id": "exp-magnet", "sec": "zertteu", "type": "exp", "t": "«Магнит нені тартады?»", "age": "4–5 жас", "goal": "Магниттің қасиетімен таныстыру; заттарды «тартады / тартпайды» деп топтастыру.", "tools": "Балаларға арналған үлкен магнит, қағаз қыстырғыш, темір қасық, кілт, пластик текше, ағаш қарындаш, мата, қағаз; екі тәрелке. 3D ойын үшін — интерактивті тақта, планшет немесе компьютер.", "rule": "Барысы: 1) Балалар магнитті заттарға жақындатады. 2) Тартылғандарын бір тәрелкеге, тартылмағандарын екіншісіне салады. 3) «Тартылғандардың бәрі неден жасалған?» деп талқылайды (темір). Ойын: «Сиқырлы қасық» — магнитпен үстел астынан қыстырғышты жүргізу. Сақтық: тек үлкен магнит қолданылады, ұсақ магниттерді беруге болмайды (жұтып қою қаупі); ересектің бақылауымен ғана. 🎮 3D ойын: Үстел үстінде зат пайда болады: бала алдымен болжайды — «Тартады» немесе «Тартпайды». Сосын 3D магнит түсіп келеді: темір заттар оған секіріп жабысады, басқалары орнында қалады. Зат жасыл немесе қызыл науаға орналасады, себебі айтылады. 8 зат: қыстырғыш, кілт, шеге, қасық, қарындаш, текше, өшіргіш, алма, қағаз.", "ext": "games.html#magnet3d", "play3": 1},
+ {"id": "exp-water", "sec": "zertteu", "type": "exp", "t": "«Су қайда жоғалды?»", "age": "4–5 жас", "goal": "Булану құбылысымен таныстыру; бақылау жүргізіп, нәтижені салыстыру.", "tools": "Екі бірдей мөлдір стақан, су, маркер немесе жапсырма, күн түсетін терезе, бақылау күнделігі (сурет салатын парақ). 3D ойын үшін — интерактивті тақта, планшет немесе компьютер.", "rule": "Барысы: 1) Екі стақанға бірдей су құйып, деңгейін белгілейді. 2) Біреуін күн түсетін терезеге, екіншісін көлеңкеге қояды. 3) Үш күн бойы әр таңертең деңгейді қарап, күнделікке сурет салады. Қорытынды: «Қай стақандағы су тез азайды? Неге?» (Күн жылытады — су буланады.) 🎮 3D ойын: үстелде екі бірдей стақан су тұр — бірі күн түсетін терезенің алдында, екіншісі көлеңкеде. Бала қай стақандағы су тезірек азаятынын болжайды, сосын «Келесі күн» батырмасымен үш күн бақылайды: күндегі стақаннан бу көтеріліп, суы азаяды.", "ext": "games.html#evap3d", "play3": 1},
+ {"id": "exp-colors", "sec": "zertteu", "type": "exp", "t": "«Түстер араласады»", "age": "3–4 жас", "goal": "Негізгі түстерді араластыру арқылы жаңа түс алуды көрсету; қызығушылық ояту.", "tools": "Гуашь (қызыл, сары, көк), су, мөлдір стақандар немесе палитра, қылқалам, ақ парақ. 3D ойын үшін — интерактивті тақта, планшет немесе компьютер.", "rule": "Барысы: 1) Балалар алдымен болжайды: «Көк пен сары қосылса не болады?» 2) Екі түсті араластырып, нәтижені көреді: көк + сары = жасыл; қызыл + сары = қызғылт сары; қызыл + көк = күлгін. 3) Жаңа түстермен сурет салады. Кейін «3D бояу» ойынында жаңа түстерді қолдануға болады. 🎮 3D ойын: Үстелде екі түсті сұйықтығы бар колба тұр. Бала нәтижені болжайды: үш түстің бірін таңдайды. Сосын колбалар ортадағы ыдысқа құйылып, түс біртіндеп араласады. Көк + сары = жасыл, қызыл + сары = қызғылт сары, қызыл + көк = күлгін, қызыл + ақ = қызғылт, көк + ақ = көгілдір.", "ext": "games.html#mix3d", "play3": 1},
+ {"id": "exp-seed", "sec": "zertteu", "type": "exp", "t": "«Тұқым қалай өседі?»", "age": "5–6 жас", "goal": "Өсімдіктің өсу кезеңдерін бақылау; өсуге не қажет екенін (су, жарық, жылу) түсіну.", "tools": "Бұршақ немесе асбұршақ тұқымдары, мақта немесе дымқыл сүлгі, мөлдір стақан, су, бақылау күнделігі. 3D ойын үшін — интерактивті тақта, планшет немесе компьютер.", "rule": "Барысы: 1) Тұқымды дымқыл мақтаға салып, мөлдір стақанға қояды. 2) Күн сайын мақтаны ылғалдап, өзгерісті күнделікке салады (тамыр, сабақ, жапырақ). 3) Бір стақанды қараңғыға қойып, айырмашылықты салыстырады. 4) Аптаның соңында «Қызанақ қалай өседі?» ойынымен кезеңдерді бекітеді. 🎮 3D ойын: Бала қадамдарды дұрыс ретімен таңдайды: топырақ сал → тұқым ек → су құй → күнге қой → күт. Әр қадам 3D құмырада көрінеді: су тамшылары, күн шығады, соңында сабақ, жапырақ, гүл және қызанақ өседі. Қате ретте ойын «Алдымен не істейміз?» деп кеңес береді.", "ext": "games.html#grow3d", "play3": 1},
+ {"id": "exp-snow", "sec": "zertteu", "type": "exp", "t": "«Қар неге ериді?»", "age": "4–5 жас", "goal": "Заттың күйінің өзгеруін (қар → су) байқау; жылу мен суықтың әсерін түсіну.", "tools": "Екі ыдыс, қар (немесе мұз текшелері), жылы бөлме, тоңазытқыш немесе балкон, сағат суреті. 3D ойын үшін — интерактивті тақта, планшет немесе компьютер.", "rule": "Барысы: 1) Серуенде екі ыдысқа қар жинайды. 2) Біреуін топқа әкеледі, екіншісін сыртта қалдырады. 3) 30 минуттан соң салыстырады: бөлмедегі қар суға айналды. 4) Суды мұздатқышқа қойып, ертеңіне қайта мұзға айналғанын көреді. Қорытынды: «Жылыда қар ериді, суықта су қатады». 🎮 3D ойын: Төрт жерде бірдей мұз текшесі тұр: күн астында, бөлмеде, көлеңкеде, тоңазытқышта. Бала мұз қай жерде ең тез (немесе ең баяу) еритінін болжайды, сосын бәрі бірге «бақыланады»: мұз кішірейіп, астында су пайда болады. Үш тапсырма.", "ext": "games.html#melt3d", "play3": 1},
  {"id": "gen-monshak", "sec": "akyldy", "type": "game", "t": "«Моншақ тізу»", "age": "3–6 жас", "goal": "Заттарды үлгі бойынша ретімен тізу, түстерді ажырату, ұсақ моторика; ұлттық әшекеймен таныстыру.", "tools": "Интерактивті тақта немесе компьютер (интернет қажет); қаласаңыз — нақты моншақтар мен жіп.", "rule": "Genially платформасындағы интерактивті ойын: моншақтарды берілген ретпен тізеді. Ойыннан кейін балалар нақты моншақтарды жіпке тізіп, өз әшекейін жасайды. «Моншақ» бейнесімен (Көр де, үйрен! бөлімі) бірге қолдануға болады.", "ext": "https://view.genially.com/67eeaaa7100b630a501f95fd", "embed": "https://view.genially.com/67eeaaa7100b630a501f95fd", "th": "🧵", "cover2": "video/v7.webp"}
 ];
 const mine=()=>store.get('ba-mine',[]);
@@ -505,7 +503,7 @@ function playTune(tune,btn){try{const c=ac();if(playing){playing.forEach(clearTi
 
 /* ---------- views ---------- */
 const zs=s=>`--z1:${s.z1};--z2:${s.z2}`;
-const G3T=['sink3d','shapes3d','tower3d','paint3d','balloons3d','odd3d','count3d','animals3d','changed3d','builder3d','emotions3d','help3d','bunny3d','moves3d','runner3d','applique','waste','eco'];
+const G3T=['evap3d','magnet3d','mix3d','grow3d','melt3d','sink3d','shapes3d','tower3d','paint3d','balloons3d','odd3d','count3d','animals3d','changed3d','builder3d','emotions3d','help3d','bunny3d','moves3d','runner3d','applique','waste','eco'];
 function thumbOf(m){const g=m.ext&&m.ext.startsWith('games.html#')?m.ext.slice(11):null;if(g&&G3T.includes(g))return['img/g3/'+g+'.webp',0];if(g==='puzzle')return['img/hero.webp',0];if(m.cover)return[m.cover,0];if(m.cover2)return[m.cover2,0];if(m.th&&/\.webp$/.test(m.th))return[(m.th.startsWith('img/')?'':'eko/img/')+m.th,0];if(m.id==='dx-forest')return['eko/img/hab_c_forest.webp',0];return[(SM[m.sec]||SEC[0]).img,1]}
 const card=m=>{const s=SM[m.sec]||SEC[0];const[ti,ic]=thumbOf(m);return`<a class="mat" style="${zs(s)}" href="#m-${esc(m.id)}"><span class="mth${ic?' ic':''}"><img src="${esc(ti)}" alt="" loading="lazy">${m.ext&&G3T.includes((m.ext||'').slice(11))&&!/applique|waste|eco/.test(m.ext)?'<b class="d3">3D</b>':''}${m.vsrc?'<b class="pl">▶</b>':''}${m.src?'<b class="pl">♪</b>':''}</span><div class="k"><span class="tag">${esc(TYPES[m.type]||'Материал')}</span>${m.own?'<span class="tag">менікі</span>':''}${m.play||m.tune||m.ext||m.src||m.vsrc?'<span class="tag">▶ ойнатылады</span>':''}${m.dur?`<span class="tag">${esc(m.dur)}</span>`:''}</div><h3>${esc(m.t)}</h3><p>${esc(m.goal)}</p></a>`};
 const zone=s=>`<a class="zone" href="#s-${s.id}" style="${zs(s)}"><img src="${s.img}" alt="" loading="lazy"><div><h3>${s.t}</h3><small>${s.n}-бөлім</small></div></a>`;
